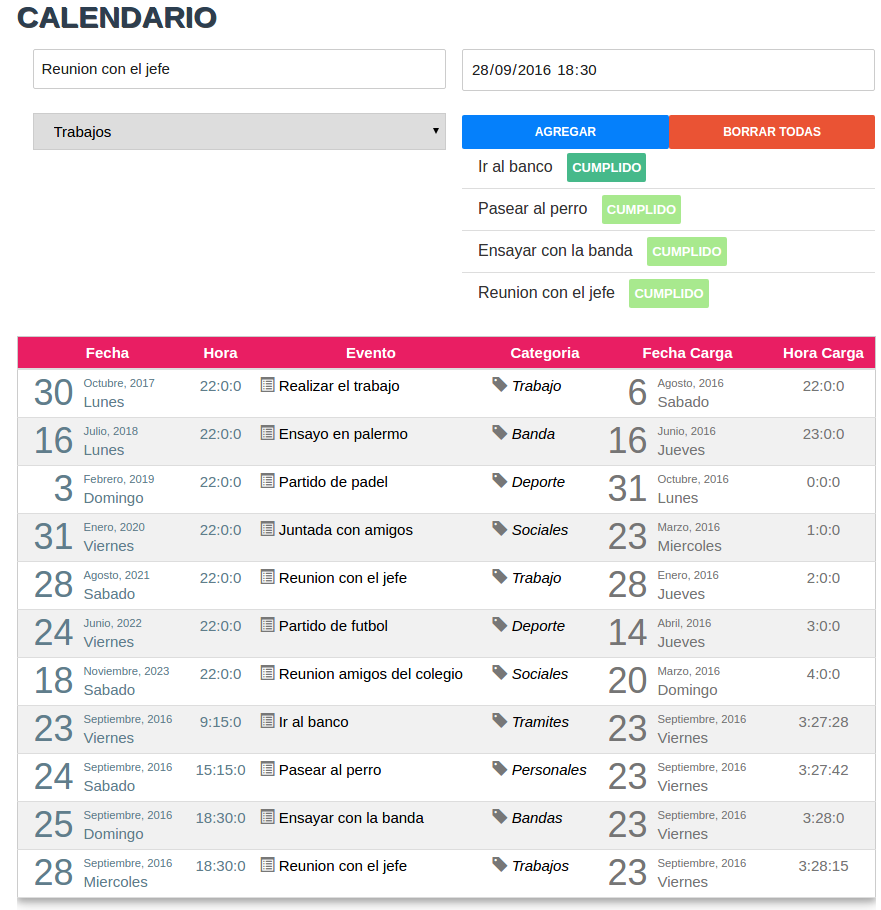
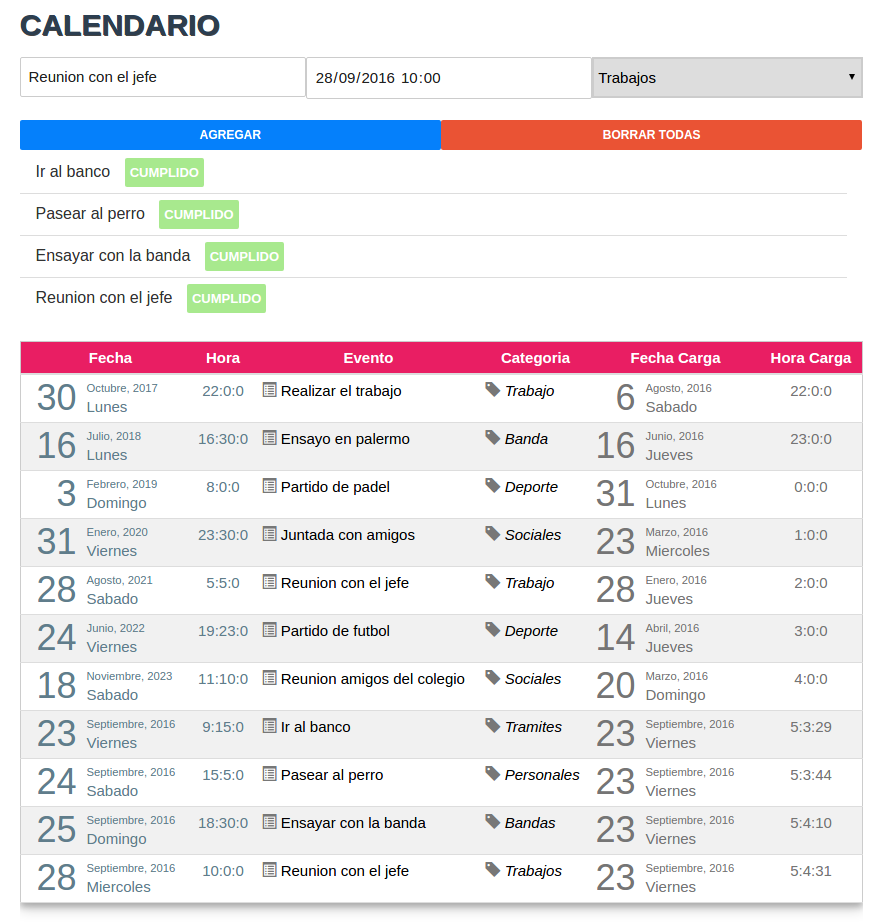
imagen preview github

diff --git a/todo.html b/todo.html
@@ -16,29 +16,27 @@
 
 <body>
     <div class="wrapper">
-        <div class="border">
-            <div class="w3-text-shadow w3-margin-right w3-margin-bottom">
+        <div class="border w3-margin-right">
+            <div class="w3-text-shadow w3-margin-bottom">
                 <h2>Calendario<h2>
           </div>
-            <div class="w3-row-padding">
-              <div class="w3-half">
+            <div class="">
+              <div class="w3-third">
                 <tr>
                   <td>
-                    <input class="w3-input w3-border" type="text" id="inputevento" placeholder="    Evento">
+                    <input class="w3-input w3-border" type="text" id="inputevento" placeholder="Evento">
                   </td>
               </div>
-              <div class="w3-half">
+              <div class="w3-third">
                   <td>
                     <input class="w3-input w3-border" type="datetime-local" class="" id="fechafutura" placeholder="">
                   </td>
               </tr>
             </div>
-            <br>
-            <div class="w3-half">
-              <br>
-              <tr class="">
+            <div class="w3-rest w3-margin-right w3-border">
+              <tr class=" ">
                 <td>
-                  <select class="w3-select w3-border w3-padding" id="inputeventocategoria" name="opciones">
+                  <select class="w3-select w3-border" id="inputeventocategoria" name="opciones">
                     <option value="" disabled selected>Categoria</option>
                     <option value="Bandas">Bandas</option>
                     <option value="Deportes">Deporte</option>
@@ -50,22 +48,21 @@
                 </td>
             </div>
             <br>
-            <br>
-            <div class="w3-half">
+            <div class="">
                 <td>
-                  <div class="w3-btn-group ">
-                      <button class="w3-btn w3-padding" style="width:50%" id="add">Agregar</button>
-                      <button class="w3-btn w3-padding" style="width:50%" id="removeAll">Borrar todas</button>
+                  <div class="w3-btn-group w3-margin-right">
+                      <button class="w3-btn-block w3-half"  id="add">Agregar</button>
+                      <button class="w3-btn-block w3-half"  id="removeAll">Borrar todas</button>
                       <br>
-                      <ul class="w3-ul" id="list">
+                      <ul class="w3-ul w3-margin-right" id="list">
 
                   </div>
                 </td>
               </tr>
-            <br>
-          </div>
+            </div>
         </div>
-     <div class="agenda">
+        <br>
+        <div class="agenda">
          <div class="table-responsive w3-responsive w3-margin-right">
              <table  class="table table-condensed w3-table-all w3-hoverable w3-striped w3-card-4 ">
                  <thead>

diff --git a/public/js/agenda.js b/public/js/agenda.js
@@ -8,37 +8,37 @@ const EVENTS = [{
     id: 2,
     title: 'Ensayo en palermo',
     category: 'Banda',
-    fechafutura: '2018-07-16T22:00:00.000Z',
+    fechafutura: '2018-07-16T16:30:00.000Z',
     dueDate: '2016-06-16T23:00:00.000Z'
 }, {
     id: 3,
     title: 'Partido de padel',
     category: 'Deporte',
-    fechafutura: '2019-02-03T22:00:00.000Z',
+    fechafutura: '2019-02-03T08:00:00.000Z',
     dueDate: '2016-10-31T00:00:00.000Z'
 }, {
     id: 4,
     title: 'Juntada con amigos',
     category: 'Sociales',
-    fechafutura: '2020-01-31T22:00:00.000Z',
+    fechafutura: '2020-01-31T23:30:00.000Z',
     dueDate: '2016-03-23T01:00:00.000Z'
 }, {
     id: 5,
     title: 'Reunion con el jefe',
     category: 'Trabajo',
-    fechafutura: '2021-08-28T22:00:00.000Z',
+    fechafutura: '2021-08-28T05:05:00.000Z',
     dueDate: '2016-01-28T02:00:00.000Z'
 }, {
     id: 6,
     title: 'Partido de futbol',
     category: 'Deporte',
-    fechafutura: '2022-06-24T22:00:00.000Z',
+    fechafutura: '2022-06-24T19:23:00.000Z',
     dueDate: '2016-04-14T03:00:00.000Z'
 }, {
     id: 7,
     title: 'Reunion amigos del colegio',
     category: 'Sociales',
-    fechafutura: '2023-11-18T22:00:00.000Z',
+    fechafutura: '2023-11-18T11:10:00.000Z',
     dueDate: '2016-03-20T04:00:00.000Z'
 }, ];
 
